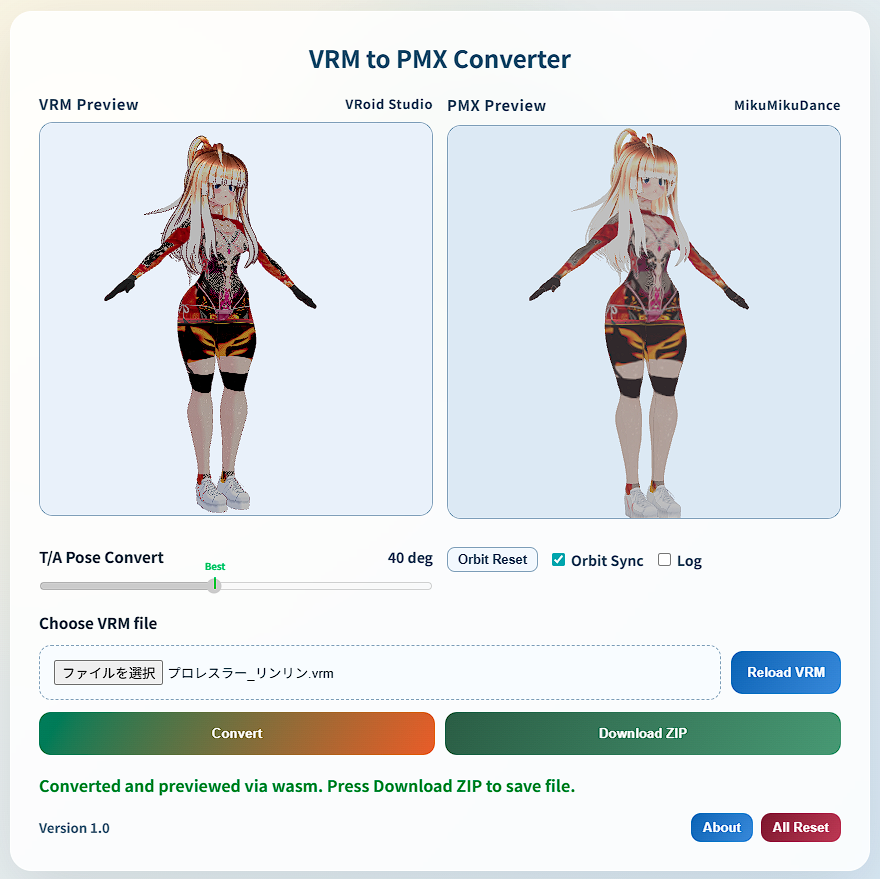
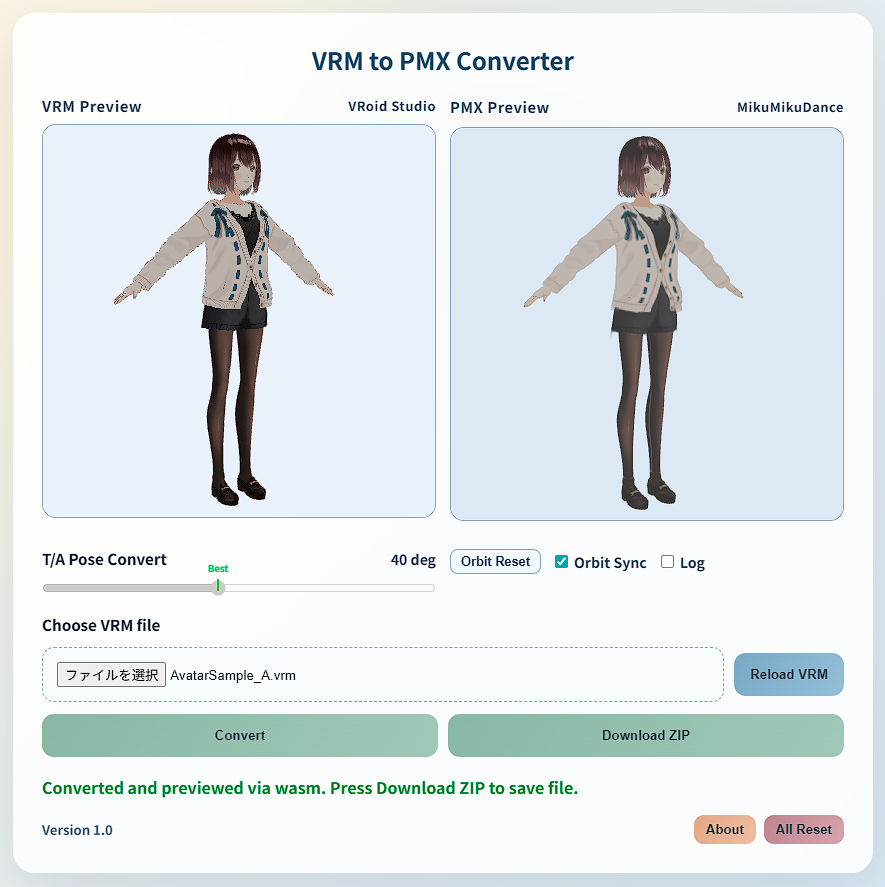
色々調整

diff --git a/frontend/src/App.tsx b/frontend/src/App.tsx
@@ -13,7 +13,7 @@ import {
   isBackendFallbackEnabled,
   toUserFriendlyConvertError,
 } from "./services/convertClient";
-import type { WorkerLogResponse } from "./types/convert";
+import type { WorkerLogResponse, WorkerProgressStage } from "./types/convert";
 
 type Status = "idle" | "uploading" | "done" | "error" | "canceled";
 
@@ -42,6 +42,23 @@ const PMX_LIGHT_DEFAULT_INTENSITY_SCALE = 1.2;
 const PMX_LIGHT_DEFAULT_CONTRAST_FACTOR = 1.1;
 const UI_SETTINGS_STORAGE_KEY = "vrm2pmx.ui.settings.v1";
 const APP_VERSION = "1.0";
+
+function getStageProgressPercent(stage: WorkerProgressStage): number {
+  switch (stage) {
+    case "init":
+      return 8;
+    case "pyodide-loading":
+      return 26;
+    case "py-src-sync":
+      return 45;
+    case "converting":
+      return 80;
+    case "finalizing":
+      return 96;
+    default:
+      return 0;
+  }
+}
 
 type UiSettingsSnapshot = {
   mode: ConvertMode;
@@ -519,6 +536,8 @@ export default function App() {
   const [errorDetail, setErrorDetail] = useState("");
   const [isPreviewing, setIsPreviewing] = useState(false);
   const [isVrmDropActive, setIsVrmDropActive] = useState(false);
+  const [convertProgressPercent, setConvertProgressPercent] = useState(0);
+  const [convertProgressStage, setConvertProgressStage] = useState<WorkerProgressStage | "done" | null>(null);
   const [convertedOutput, setConvertedOutput] = useState<ConvertedOutput | null>(null);
   const abortControllerRef = useRef<AbortController | null>(null);
   const vrmInputRef = useRef<HTMLInputElement | null>(null);
@@ -718,6 +737,8 @@ export default function App() {
     setCopyStatus("idle");
     setErrorDetail("");
     setStatus("idle");
+    setConvertProgressPercent(0);
+    setConvertProgressStage(null);
     setFile(null);
     setIsVrmReady(false);
     setMessage("VRM file is not selected yet.");
@@ -1187,6 +1208,8 @@ export default function App() {
     setStatus("uploading");
     setErrorDetail("");
     setConvertedOutput(null);
+    setConvertProgressPercent(2);
+    setConvertProgressStage("init");
     abortControllerRef.current = new AbortController();
     setMessage(
       mode === "backend"
@@ -1206,6 +1229,9 @@ export default function App() {
       const result = await convertWithMode(convertInput, mode, {
         onProgress: (progress) => {
           setMessage(progress.message);
+          const nextPercent = getStageProgressPercent(progress.stage);
+          setConvertProgressStage(progress.stage);
+          setConvertProgressPercent((prev) => Math.max(prev, nextPercent));
         },
         onLog: appendWorkerLog,
         signal: abortControllerRef.current.signal,
@@ -1223,6 +1249,8 @@ export default function App() {
         throw new Error("Current preview supports ZIP output with PMX resources.");
       }
 
+      setConvertProgressPercent(100);
+      setConvertProgressStage("done");
       setStatus("done");
       if (result.fallbackReason) {
         setMessage(
@@ -1234,6 +1262,8 @@ export default function App() {
     } catch (error) {
       if (error instanceof Error && error.name === "AbortError") {
         setStatus("canceled");
+        setConvertProgressPercent(0);
+        setConvertProgressStage(null);
         setMessage("Conversion canceled.");
       } else {
         const rawDetail = error instanceof Error ? error.message : String(error);
@@ -1246,6 +1276,8 @@ export default function App() {
         });
 
         setStatus("error");
+        setConvertProgressPercent(0);
+        setConvertProgressStage(null);
         setErrorDetail(rawDetail);
         setMessage(
           toUserFriendlyConvertError(error, {
@@ -1830,8 +1862,12 @@ export default function App() {
           </div>
 
           <div className="convert-actions">
-            <button type="submit" disabled={!canConvert}>
-              {status === "uploading" ? "Converting..." : "Convert"}
+            <button
+              type="submit"
+              className={`convert-button${status === "uploading" ? ` is-uploading progress-${convertProgressStage ?? "init"}` : ""}`}
+              disabled={!canConvert}
+            >
+              {status === "uploading" ? `Converting... ${Math.round(convertProgressPercent)}%` : "Convert"}
             </button>
             <button
               type="button"

diff --git a/frontend/src/app.css b/frontend/src/app.css
@@ -3,8 +3,9 @@
   --bg-2: #d6e6f8;
   --card: #ffffffd9;
   --ink: #1f2a37;
-  --accent: #0c7c59;
-  --accent-2: #e36414;
+  --button-ink: #2f3a44;
+  --accent: #7ea99a;
+  --accent-2: #97bcae;
   --error: #b00020;
   --ok: #0f8b3d;
   font-family: "Space Grotesk", "Noto Sans JP", sans-serif;
@@ -333,7 +334,7 @@ input[type="file"] {
 
 .preview-button {
   white-space: nowrap;
-  background: linear-gradient(120deg, #2a5fba, #4a84df);
+  background: linear-gradient(120deg, #7ea8c9, #98bdd9);
 }
 
 .convert-actions {
@@ -342,8 +343,48 @@ input[type="file"] {
   gap: 10px;
 }
 
+.convert-button {
+  position: relative;
+  overflow: hidden;
+}
+
+.convert-button.is-uploading {
+  --convert-progress: 0%;
+  background:
+    linear-gradient(120deg, #5f9d82, #7ab295) 0 0 / var(--convert-progress) 100% no-repeat,
+    linear-gradient(120deg, #8cb7a4, #a2c7b7);
+}
+
+.convert-button.is-uploading.progress-init {
+  --convert-progress: 8%;
+}
+
+.convert-button.is-uploading.progress-pyodide-loading {
+  --convert-progress: 26%;
+}
+
+.convert-button.is-uploading.progress-py-src-sync {
+  --convert-progress: 45%;
+}
+
+.convert-button.is-uploading.progress-converting {
+  --convert-progress: 80%;
+}
+
+.convert-button.is-uploading.progress-finalizing {
+  --convert-progress: 96%;
+}
+
+.convert-button.is-uploading.progress-done {
+  --convert-progress: 100%;
+}
+
 .download-button {
-  background: linear-gradient(120deg, #2e5d43, #4d9871);
+  background: linear-gradient(120deg, #8cb7a4, #a2c7b7);
+}
+
+.convert-button:not(.is-uploading) {
+  background: linear-gradient(120deg, #8cb7a4, #a2c7b7);
 }
 
 select {
@@ -359,7 +400,7 @@ button {
   border: none;
   border-radius: 12px;
   padding: 14px 16px;
-  color: white;
+  color: var(--button-ink);
   font-weight: 700;
   background: linear-gradient(120deg, var(--accent), var(--accent-2));
   cursor: pointer;
@@ -525,11 +566,11 @@ button:disabled {
   border-radius: 10px;
   font-size: 0.82rem;
   line-height: 1;
-  background: linear-gradient(120deg, #2a5fba, #4a84df);
+  background: linear-gradient(120deg, #dfaa80, #ebbf9d);
 }
 
 .footer-action-button-reset {
-  background: linear-gradient(120deg, #7a1f2d, #b84053);
+  background: linear-gradient(120deg, #bd8790, #d4a5ac);
 }
 
 .about-modal-backdrop {
@@ -570,7 +611,7 @@ button:disabled {
   padding: 6px 10px;
   border-radius: 8px;
   font-size: 0.8rem;
-  background: linear-gradient(120deg, #5f7793, #859bb6);
+  background: linear-gradient(120deg, #8ea2b8, #a8bbcd);
 }
 
 .about-modal-body {

diff --git a/docs/_note/checklist_20260324.md b/docs/_note/checklist_20260324.md
@@ -1,0 +1,64 @@
+# checklist_20260324
+
+## 1. UI調整
+
+- [x] About ダイアログに以下を追加
+  - [x] GitHub リポジトリリンク (vrm2pmx-md)
+  - [x] Special thanks
+  - [x] Forked from vrm2pmx 表記
+  - [x] 使用ライブラリリンクの横並び表示
+- [x] タイトル (VRM to PMX Converter) の中央寄せ
+- [x] Log View ヘッダーの上下余白を縮小
+- [x] VRM Preview のプレースホルダーに補足文追加
+  - (Only VRM 0.0 can be converted)
+- [x] Convert ボタンに進捗表現を追加
+  - [x] ステージベースの疑似%表示
+  - [x] 左から塗り進む見た目
+
+## 2. デザイン調整
+
+- [x] Convert を Download ZIP と同系色に統一
+- [x] ボタン全体をパステル寄りに調整
+- [x] ボタン文字色を白からダークグレーへ変更
+- [x] About ボタンをオレンジ系に変更
+
+## 3. README/ドキュメント
+
+- [x] [README.md](../../README.md) 更新
+  - [x] 使用ライブラリ記載
+  - [x] shields.io バッジ修正
+  - [x] TypeScript / Python 追記
+- [x] [README_en.md](../../README_en.md) 作成
+
+## 4. favicon / SEO / SNS / Analytics
+
+- [x] favicon を [frontend/public/assets/favicon](../../frontend/public/assets/favicon) に配置
+- [x] [frontend/index.html](../../frontend/index.html) に favicon リンク追加
+- [x] description (英日) 追加
+- [x] Google Analytics gtag 追加
+- [x] OGP/Twitter/canonical 追加
+- [x] OGP画像を [frontend/public/assets/og/ogp.png](../../frontend/public/assets/og/ogp.png) に差し替え
+
+## 5. Git運用
+
+- [x] feature/ui-enhancements を push
+- [x] ローカルで main へ fast-forward マージ
+- [x] main を origin/main に push
+
+## 6. 公開前の最終チェック (推奨)
+
+- [ ] Chrome/Edge で変換フロー確認
+- [ ] 代表モデル 5〜10件で変換・MMD読み込み確認
+- [ ] 失敗ケース確認 (.vrm/.glb 以外、キャンセル、壊れデータ)
+- [ ] OGP表示確認
+  - [ ] X 投稿作成画面でURLプレビュー確認
+  - [ ] Facebook Sharing Debugger で Scrape Again
+- [ ] GA リアルタイムでイベント受信確認
+
+## 7. 今後タスク候補
+
+- [ ] VRM 1.0 変換対応
+- [ ] Vrm展開ホットスポットの計測
+- [ ] 必要に応じて部分Rust化を検討
+- [ ] App.tsx の段階的分割 (Preview / Convert / Log / Footer)
+- [ ] 最小E2Eテスト導入 (正常系・失敗系・キャンセル)
